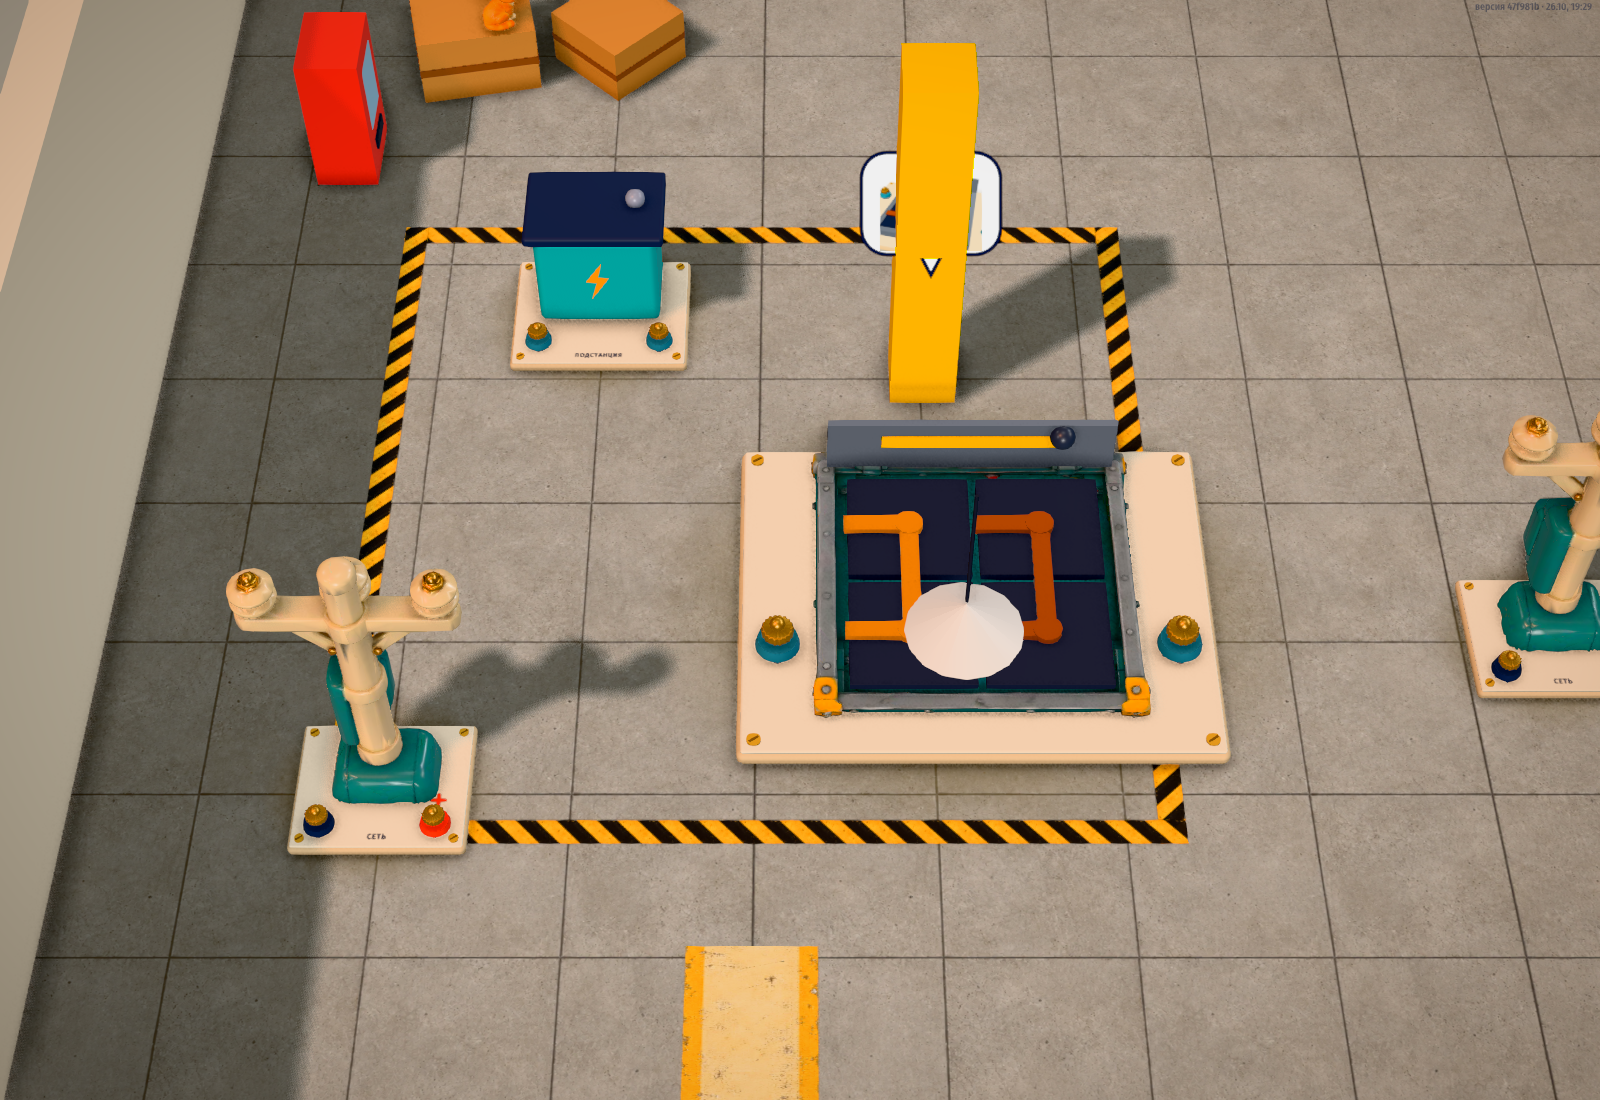
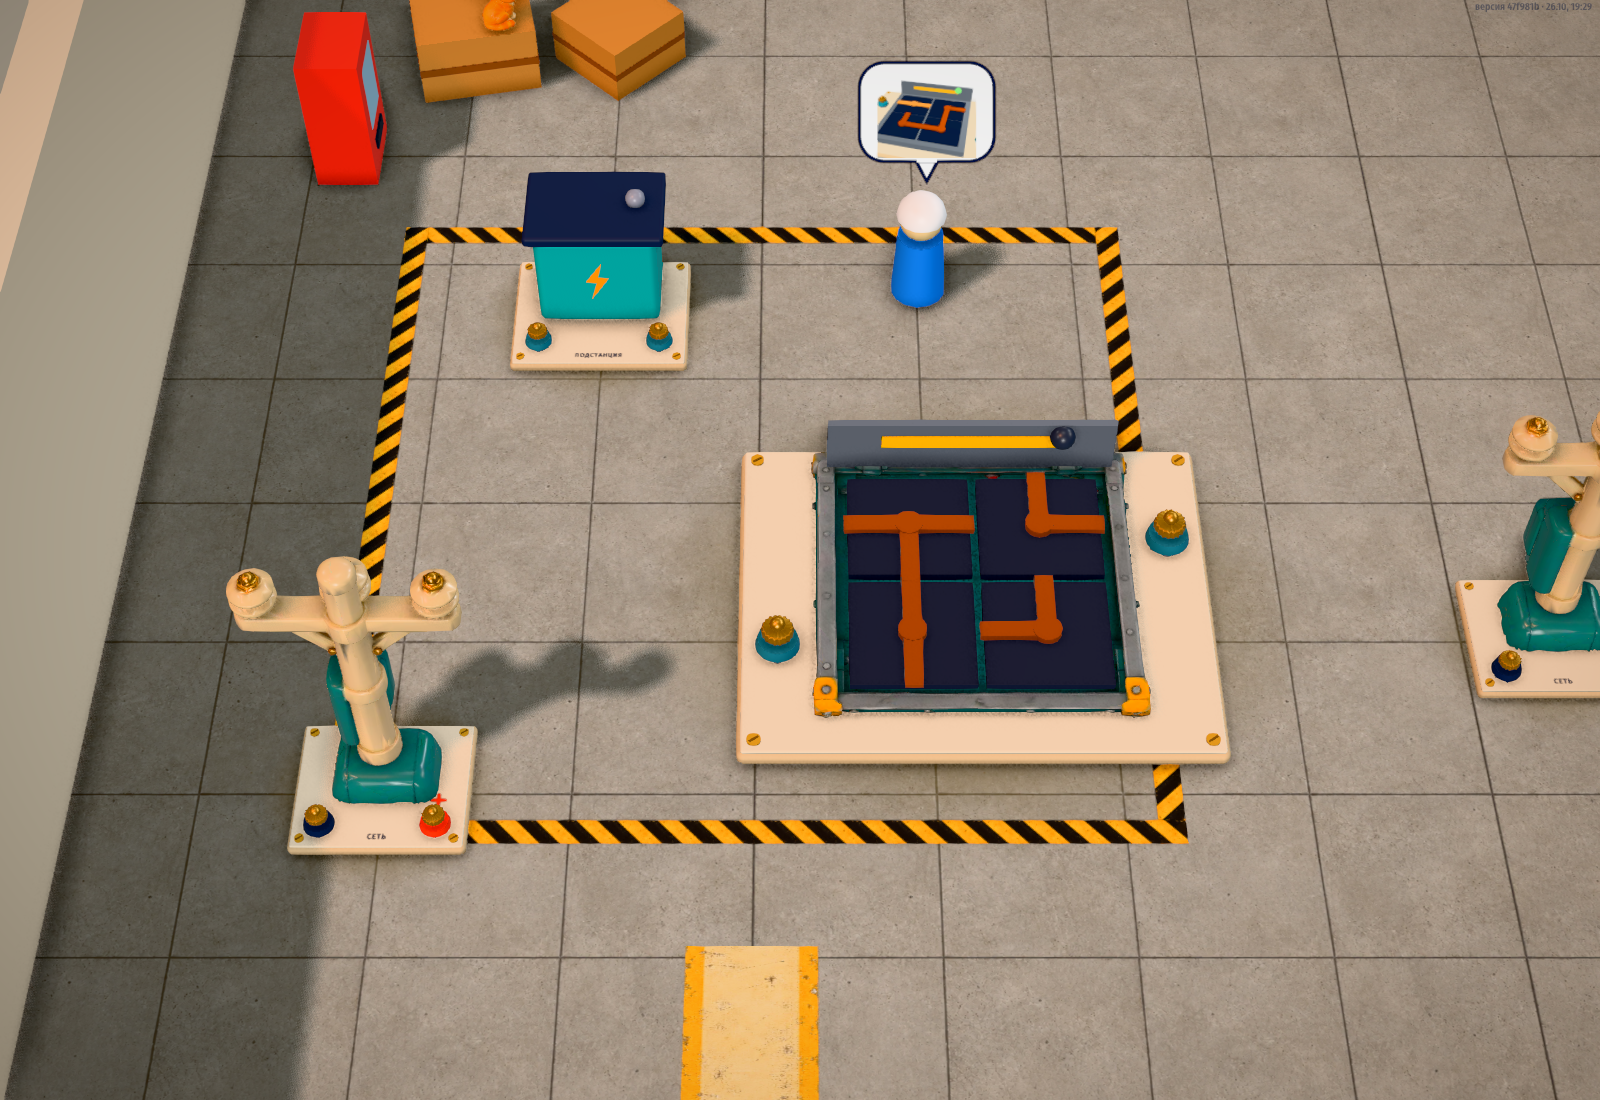
Factory: pillars and lamps keep clear of the stations and their characters; the foreman stands by the panel, not on the box

Changed region(s): [[0.5312, 0.0309, 0.75, 0.4018], [0.5312, 0.4327, 0.75, 0.6182], [0.7188, 0.5564, 0.75, 0.6182]]

diff --git a/src/factory.ts b/src/factory.ts
@@ -82,6 +82,9 @@ const LORRY = v(32.5, -2.5);
  */
 const CRANE_Z = 24.5;
 
+/** Where the foreman and the four workers stand (by their stations). */
+const WORKER_SPOTS = [v(PANEL.x + 4, PANEL.z - 0.5), v(CART.x + 2, CART.z + 4.5), v(LATHE.x + 2.5, LATHE.z - 3.5), v(PRESS.x + 3.5, PRESS.z - 3), v(ROBOT.x + 3, ROBOT.z - 4)];
+
 /** How much bigger than a table part the factory's own machines are. */
 const MACHINE_SCALE = 1.5;
 
@@ -232,8 +235,13 @@ export class FactoryMap extends StoryMap {
       valve.position.set(x, 2.2, -D / 2 + 1.35);
       hall.add(valve);
     }
+    // Tall things hide the floor just north of them from the camera (about 0.78 of their height):
+    // pillars and lamps keep clear of every station, its character and its hint bubble.
+    const busy = [PANEL, BOX, PANEL_POLE, CART, CART_LEVER, CART_POLE, LATHE, MOTOR, LATHE_POLE, PRESS, PRESS_POLE, ROBOT, BOARD, ROBOT_POLE, HOIST, HOIST_LEVER, HOIST_POLE, ...WORKER_SPOTS];
+    const hides = (x: number, z: number, h: number) => busy.some((b) => Math.abs(b.x - x) < 2.6 && b.z < z + 1 && b.z > z - h * 0.78 - 2);
     for (let x = -30; x <= 30; x += 15) {
       for (const z of [-16, 8]) {
+        if (hides(x, z, 5) || busy.some((b) => Math.hypot(b.x - x, b.z - z) < 5)) continue;
         const pillar = mesh(new THREE.BoxGeometry(0.8, 5, 0.8), mat('#f2c230', 0.6));
         pillar.position.set(x, 2.5, z);
         hall.add(pillar);
@@ -242,6 +250,7 @@ export class FactoryMap extends StoryMap {
     // Lamps hanging over the hall: dark till the box lets the power through.
     for (let x = -30; x <= 30; x += 15) {
       for (const z of [-19, -9, 4]) {
+        if (hides(x, z, 4.6)) continue;
         const bulb = new THREE.MeshStandardMaterial({ color: '#f7f2dc', emissive: '#ffe9a8', emissiveIntensity: 0, roughness: 0.3 });
         const shade = mesh(new THREE.ConeGeometry(0.55, 0.4, 16, 1, true), mat('#e8e4dc', 0.5));
         shade.position.set(x, 4.6, z);
@@ -335,8 +344,9 @@ export class FactoryMap extends StoryMap {
   }
 
   private buildCritters() {
-    this.critter('foreman', { height: 1.6 }, v(PANEL.x + 4, PANEL.z + 1), 1.6, 0.4);
-    const workers: [string, THREE.Vector3][] = [['worker', v(CART.x + 2, CART.z + 4.5)], ['worker2', v(LATHE.x + 2.5, LATHE.z - 3.5)], ['worker3', v(PRESS.x + 3.5, PRESS.z - 3)], ['worker4', v(ROBOT.x + 3, ROBOT.z - 4)]];
+    const [foreman, ...rest] = WORKER_SPOTS;
+    this.critter('foreman', { height: 1.6 }, foreman, 1.6, 0.4);
+    const workers: [string, THREE.Vector3][] = ['worker', 'worker2', 'worker3', 'worker4'].map((n, i) => [n, rest[i]]);
     for (const [name, at] of workers) this.critter(name, { height: 1.5 }, at, 1.5, 0.3);
     this.lorry = this.critter('lorry', { width: 5 }, LORRY, 2.2, Math.PI);
     this.lorry.roams = true;
